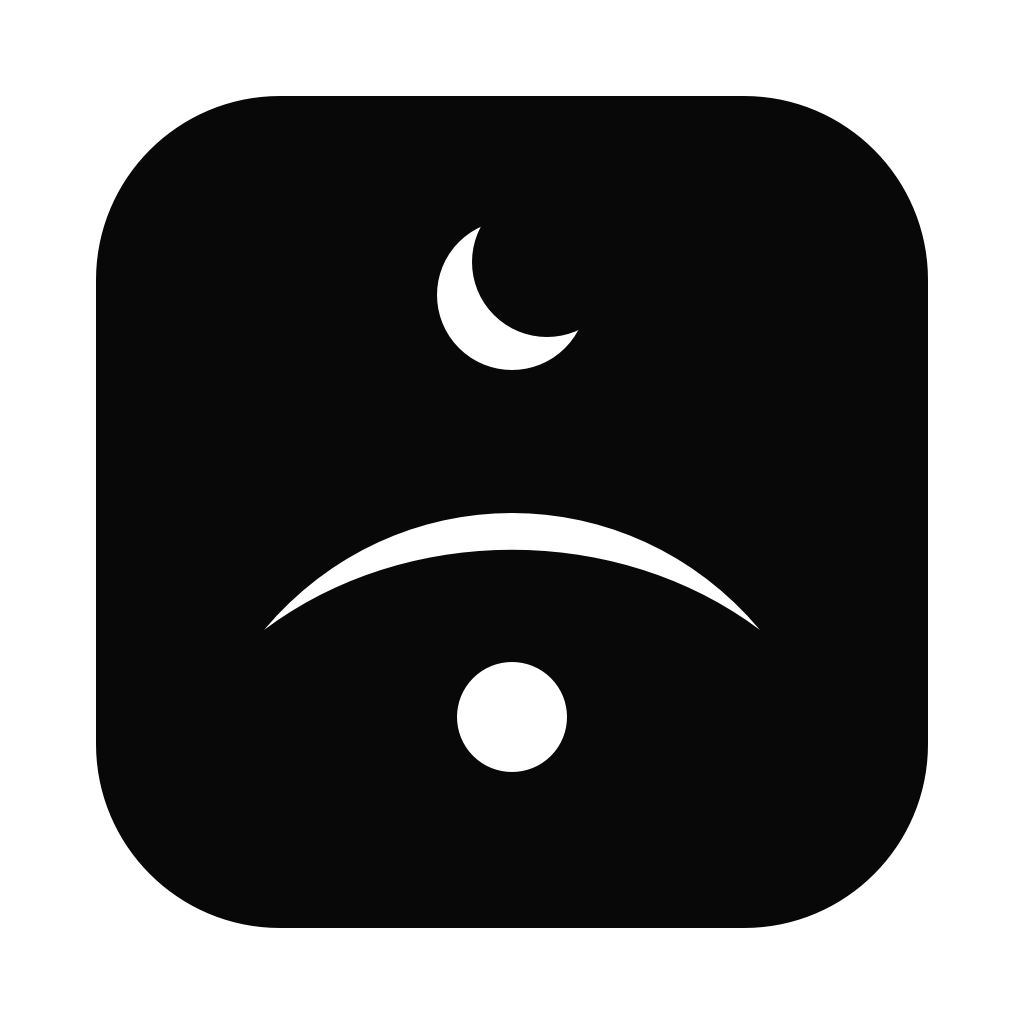
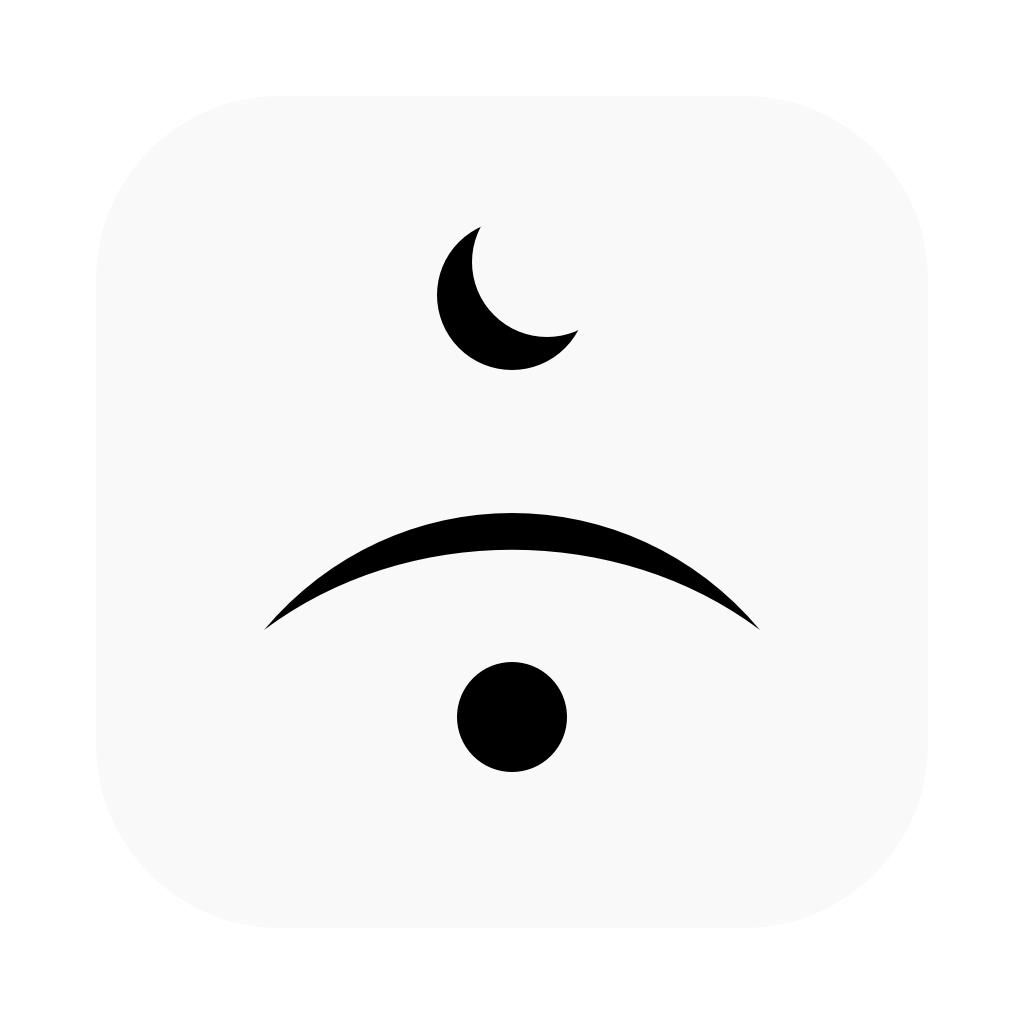
Release 1.1.2

diff --git a/scripts/generate_app_icons.swift b/scripts/generate_app_icons.swift
@@ -58,9 +58,9 @@ try writePNG(
     makeIcon(background: NSColor(calibratedWhite: 0.035, alpha: 1), foreground: .white),
     named: "AppIconDark1024.png"
 )
-// The bundle icon remains high-contrast on any desktop; runtime appearance selects Light/Dark.
+// The default public icon stays readable in README, Finder and Dock.
 try writePNG(
-    makeIcon(background: NSColor(calibratedWhite: 0.035, alpha: 1), foreground: .white),
+    makeIcon(background: NSColor(calibratedWhite: 0.97, alpha: 1), foreground: .black),
     named: "AppIcon1024.png"
 )
 

diff --git a/scripts/generate_readme_visuals.swift b/scripts/generate_readme_visuals.swift
@@ -160,7 +160,7 @@ private func drawAppWindow(rect: CGRect, state: UIState, compact: Bool = false) 
     }
 
     rounded(R(34, 60, 54, 54), radius: 14 * s, color: NSColor.black)
-    let appIconPath = FileManager.default.currentDirectoryPath + "/Resources/AppIcon1024.png"
+    let appIconPath = FileManager.default.currentDirectoryPath + "/Resources/AppIconLight1024.png"
     if let appIcon = NSImage(contentsOfFile: appIconPath) {
         appIcon.draw(in: R(34, 60, 54, 54))
     } else {

diff --git a/RELEASE_NOTES.md b/RELEASE_NOTES.md
@@ -1,10 +1,12 @@
-# NightMode 1.1.1 — Release Notes
+# NightMode 1.1.2 — Release Notes
 
-Версия 1.1.1 исправляет иконку приложения в Dock, Finder и внутри NightMode. Все возможности из 1.1.0 сохранены.
+Версия 1.1.2 исправляет отображение иконки в README, Dock, Finder и внутри NightMode. Приложение снова следует системной светлой или тёмной теме.
 
 ## Главное
 
-- восстановлена прозрачная macOS-иконка приложения;
+- светлая иконка используется для GitHub README, Finder и Dock;
+- внутри приложения иконка переключается по системной теме macOS;
+- прозрачность macOS-иконок сохранена;
 - независимые профили для каждого подключённого дисплея;
 - расписание по времени или от заката до рассвета;
 - пользовательские пресеты с иконкой, предпросмотром, редактированием и JSON-импортом;
@@ -20,7 +22,7 @@
 
 ## Установка
 
-1. Скачайте `NightMode-1.1.1.dmg` из GitHub Releases.
+1. Скачайте `NightMode-1.1.2.dmg` из GitHub Releases.
 2. Откройте образ и перенесите `NightMode.app` в папку «Программы».
 3. Запустите приложение. Если macOS покажет предупреждение для локально подписанной сборки, откройте **Системные настройки → Конфиденциальность и безопасность** и подтвердите запуск.
 4. Выберите дисплей, включите защиту и настройте силу эффекта. Разрешения Screen Recording и Accessibility не требуются.

diff --git a/RELEASE_SUMMARY.md b/RELEASE_SUMMARY.md
@@ -1,8 +1,9 @@
-# NightMode 1.1.1 — Release Summary
+# NightMode 1.1.2 — Release Summary
 
 ## Что сделано
 
-- Подготовлен hotfix 1.1.1 с восстановленной прозрачной иконкой приложения.
+- Подготовлен hotfix 1.1.2 с исправленной иконкой в README, Finder, Dock и внутри приложения.
+- Для GitHub и bundle preview используется светлая иконка; внутри приложения иконка снова следует системной теме.
 - Сохранены изменения 1.1.0: профили дисплеев, расписание, AI Auto и пользовательские пресеты.
 - Добавлены согласованные светлая и тёмная иконки в стандартной macOS safe-area.
 - Интерфейс проверен в светлой и тёмной темах; размеры главного окна и настроек стабилизированы.

diff --git a/CHANGELOG.md b/CHANGELOG.md
@@ -1,5 +1,11 @@
 # Changelog
 
+## 1.1.2 — July 28, 2026
+
+- Fixed the README and generated preview icon by using the light icon asset for GitHub.
+- Kept the in-app icon adaptive: light icon in light appearance and dark icon in dark appearance.
+- Built the app bundle icon from the light icon asset so Finder and Dock previews stay readable.
+
 ## 1.1.1 — July 28, 2026
 
 - Restored transparent macOS app icon assets so the Dock, Finder and in-app appearance render correctly.

diff --git a/README.md b/README.md
@@ -1,5 +1,5 @@
 <p align="center">
-  <img src="Resources/AppIcon1024.png" width="96" alt="NightMode icon">
+  <img src="Resources/AppIconLight1024.png" width="96" alt="NightMode icon">
 </p>
 
 <h1 align="center">NightMode</h1>
